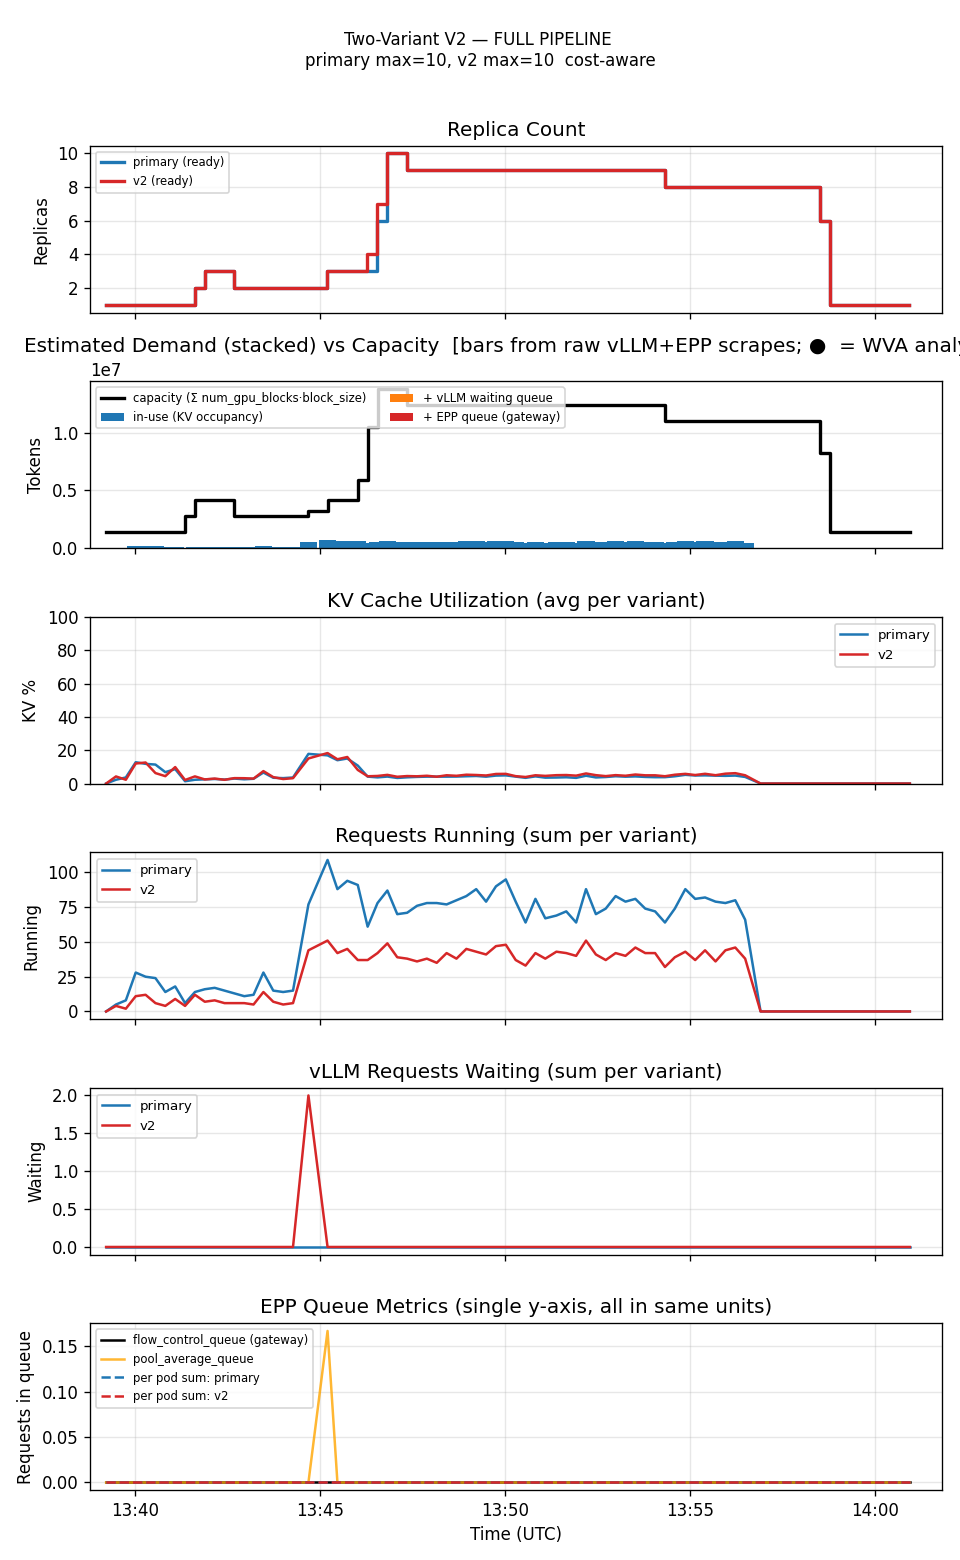
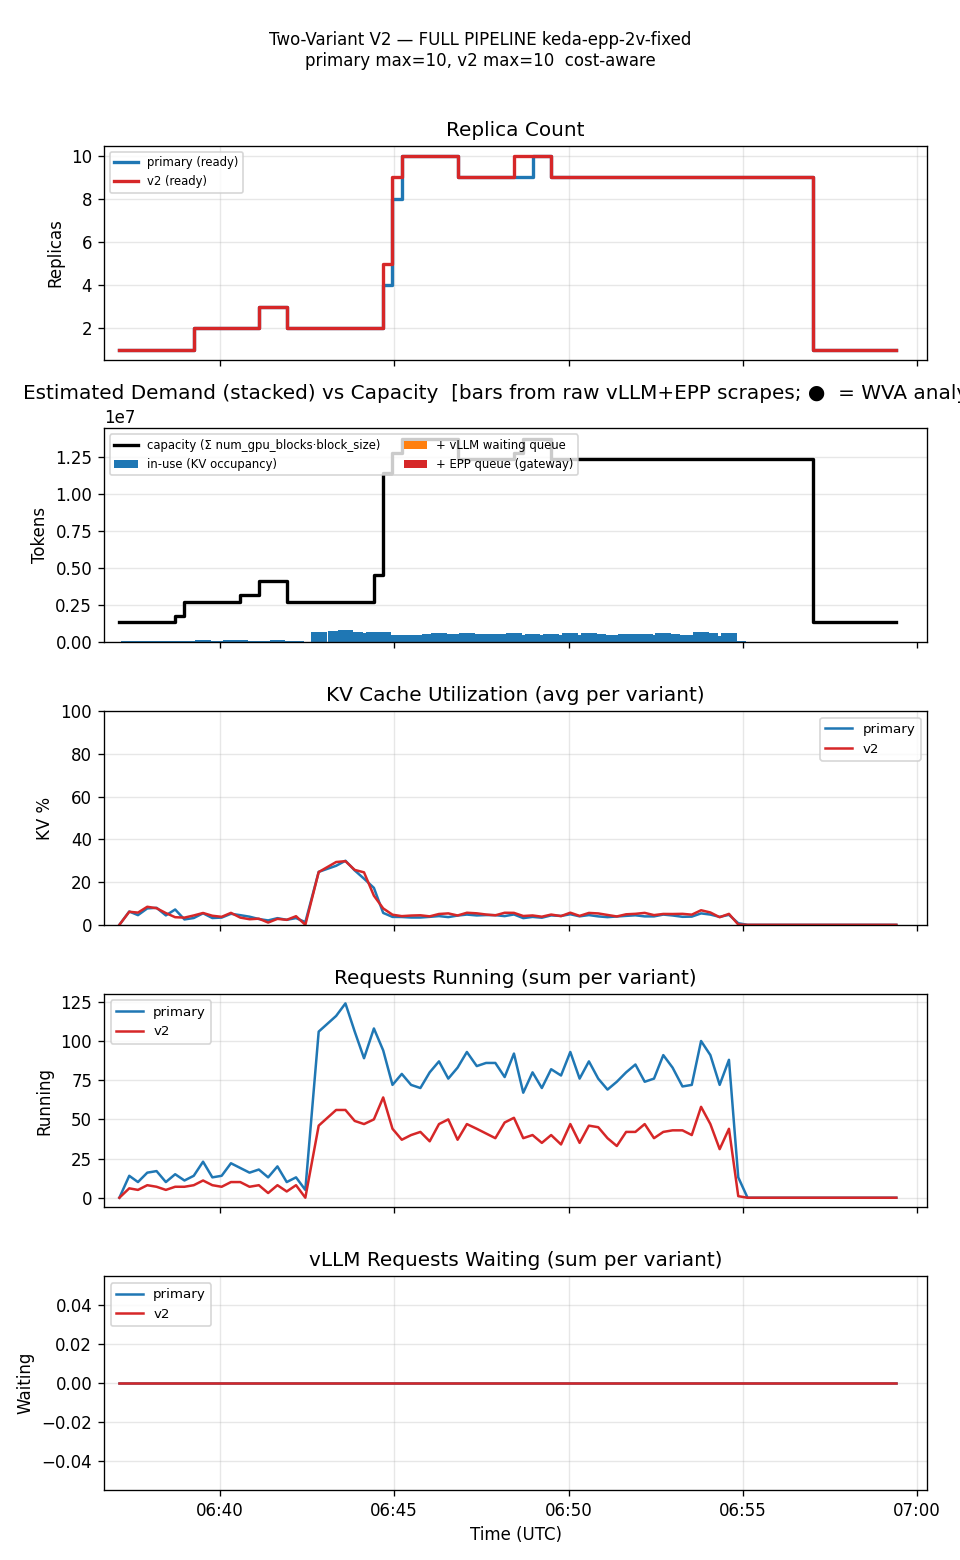
docs(comparison): rewrite two-variant comparison with EPP flowControl + maxReplicas fixes
Rerun both legs after finding and fixing two more bugs (scenario EPP plugin
config key path, primary maxReplicas inherited from chart defaults instead
of fixed). WVA now demonstrates cost-aware prioritization with a genuinely
complete demand signal (real EPP flow-control queue data for the first
time); results are within normal run-to-run variance of the prior
(flowControl-inactive) version, so enabling the signal didn't itself change
behavior. KEDA-EPP leg unchanged in substance, confirms its scaling was
always driven by the running-requests trigger alone.

diff --git a/comparison-two-variant-20260725/comparison.md b/comparison-two-variant-20260725/comparison.md
@@ -11,7 +11,7 @@ Table formatting rules for this doc (keep alignment readable in the raw editor):
 
 # Two-variant WVA (Sat-2, cost-aware) vs KEDA-EPP autoscaling
 
-Date: 2026-07-25
+Date: 2026-07-27
 Namespace: `biran` (pokprod001)
 Model: `unsloth/Meta-Llama-3.1-8B-Instruct`
 Harness: inference-perf v0.7.0
@@ -30,7 +30,7 @@ Both min=1/max=10. Cost ratio (10/5) equals the GPU ratio (2/1), so a TP=2 repli
 - Metric feeding HPA: `wva_desired_replicas` per variant — computed by the WVA controller from KV supply + demand + EPP queue, cost-weighted across variants.
 - WVA algorithm: scaleUp when KV util > 85%; scaleDown boundary 70%.
 
-**KEDA-EPP** (`guides/keda-epp-two-variant`, new scenario — no WVA installed at all)
+**KEDA-EPP** (`guides/keda-epp-two-variant`, no WVA installed at all)
 - Metric feeding HPA: same two Prometheus queries as the single-variant KEDA-EPP baseline — `sum(inference_extension_flow_control_queue_size)` and `sum(inference_objective_running_requests)` — applied to **both** variants independently, each with its own `ScaledObject`.
 - Because EPP only exposes pool-wide (not per-Deployment) queue/running-request signals, both ScaledObjects read the *identical* value and scale in lockstep — this is the correct behavior for the naive baseline: KEDA-EPP has no cost-awareness to differentiate the two variants at all.
 - Thresholds: queue avg/pod = 50, running avg/pod = 16 (same as the single-variant `scaledobject-t50.yaml`, chosen for a fairer comparison against WVA V2).
@@ -52,10 +52,14 @@ All of these produced plausible-looking symptoms while the WVA controller's own 
 3. **WVA's collector trusts a pod's `llm-d.ai/variant` label as-is whenever it's *present*** (`buildInstanceKey` in `internal/collector/replica_metrics.go`) — it only falls back to the correct owner-chain-based lookup when the label is *missing*. Two places set this label to a value that matched no tracked variant, silently dropping that pod's queue-backlog demand contribution (the in-use-KV component is attributed through a different, unaffected path, which is why the controller still scaled *something* while undercounting demand ~2×):
    - **The added variant's own label**, set by `add_variant.py` to the bare Deployment name instead of the tracked ScaledObject's name (`<deployment>-scaler`). Fixed in `make_variant_deployment()`.
    - **Primary's label**, set unconditionally by the `llm-d-benchmark` modelservice chart template (`13_ms-values.yaml.j2`, gated only on `wva.enabled`) to `<model_id_label>-decode` — baked into the Deployment's *selector* too (selector must be a subset of template labels), making it immutable once created. Rather than fight an upstream chart default we can't durably patch, `add_variant.py` now reads primary's live label and **names the primary ScaledObject to match it**, instead of assuming a fixed `<deployment>-scaler` pattern — no Deployment edit needed at all.
+4. **Both scenario files set the EPP plugin config under the wrong key** (`inferenceExtension.pluginsConfigFile`/`pluginsCustomConfig` instead of the chart's actual `router.epp.pluginsConfigFile`/`pluginsCustomConfig`) — `inferenceExtension.*` is llm-d-benchmark's naming convention for its "convert-guide" skill's GUIDE input format, not a key a benchmark *scenario* file is templated against. This silently no-oped: the rendered EPP ConfigMap never got our intended `featureGates: [flowControl]` plugin config, meaning **the flow-control admission layer — and its queue-depth metric — had never actually been active in any run of this scenario**, including every run behind the numbers below before 2026-07-27. Fixed in both `two-variant-wva.yaml` and `keda-epp-two-variant.yaml`.
+5. **Primary's `maxReplicas` was inherited from the modelservice chart's auto-generated legacy HPA** instead of being a fixed benchmark parameter — that chart default varies by chart-internal heuristics we don't control (observed 16 on one standup, 10 on others). Not reproducible for a benchmark comparison; fixed in `add_variant.py` to always use 10, matching the variant's explicit `maxReplicas: 10`.
 
-Verified fixed: cross-checking WVA's `totalDemand` against an independent raw-scrape estimate (`dump_capacity_demand_estimate.py`, computed directly from vLLM/EPP Prometheus scrapes with no dependency on WVA's own attribution) sample-by-sample shows the ratio sitting at ~0.9–1.3 throughout the run — matching within normal sampling noise, vs. a consistent ~0.5 before the label fixes.
+Verified fixed (#3): cross-checking WVA's `totalDemand` against an independent raw-scrape estimate (`dump_capacity_demand_estimate.py`, computed directly from vLLM/EPP Prometheus scrapes with no dependency on WVA's own attribution) sample-by-sample shows the ratio sitting at ~0.9–1.3 throughout the run — matching within normal sampling noise, vs. a consistent ~0.5 before the label fixes.
 
-Confirmed the label bug is scoped to the two-variant path specifically: all 10 result directories behind [`comparison-wva-keda-epp-20260722`](../comparison-wva-keda-epp-20260722/comparison.md)'s single-variant comparison carry *no* `llm_d_ai_variant` label on any pod at all (label absent → correct fallback path), so that doc's numbers are unaffected.
+Verified fixed (#4): after the key-path fix, the live EPP ConfigMap gained a real `wva-plugins.yaml`/`keda-epp-plugins.yaml` entry (confirmed via the rendered `config.yaml` and the EPP Deployment's own `--config-file` arg pointing to it), and raw Prometheus scrapes during the run show genuine nonzero `inference_extension_flow_control_queue_size` values for the first time in any run of this scenario (WVA leg: peak 335; KEDA-EPP leg: consistently 0 — see "Reading these numbers" for why that's expected, not a bug).
+
+Confirmed the label bug (#3) is scoped to the two-variant path specifically: all 10 result directories behind [`comparison-wva-keda-epp-20260722`](../comparison-wva-keda-epp-20260722/comparison.md)'s single-variant comparison carry *no* `llm_d_ai_variant` label on any pod at all (label absent → correct fallback path), so that doc's numbers are unaffected. The EPP plugin config bug (#4) is *not* scoped to two-variant, though — `wva-sat2-tp1.yaml` and `keda-epp-tp1.yaml` (the single-variant scenarios) carry the identical mistake and are fixed alongside these two.
 
 Also fixed along the way (not scaling-correctness bugs, but distort results if left alone): the harness pod's default 32Gi memory OOMKilled mid-run on this workload's 1000-token mean output (bumped to 64Gi in both scenario files), and `report.request_lifecycle.per_request: true` generated a multi-GB JSON file (observed 6GB+, 45+ minutes to collect) that nothing in the analysis pipeline reads — disabled in the workload file.
 
@@ -64,64 +68,68 @@ Also fixed along the way (not scaling-correctness bugs, but distort results if l
 | metric                                |       WVA | KEDA-EPP   |
 |---------------------------------------|-----------|------------|
 | requests                              |      7800 | 7800       |
-| successful                            |      7696 | 7767       |
-| errors                                |       104 | **33**     |
-| error rate                            |     1.33% | **0.42%** |
-| achieved RPS                          |      7.14 | 7.48       |
-| avg replicas (primary)                |  **1.68** | 5.58       |
-| avg replicas (variant)                |  **1.00** | 5.60       |
-| max replicas (primary)                |     **5** | 10         |
+| successful                            |      7682 | 7776       |
+| errors                                |       118 | **24**     |
+| error rate                            |     1.51% | **0.31%**  |
+| achieved RPS                          |      7.45 | 7.39       |
+| avg replicas (primary)                |  **2.27** | 5.72       |
+| avg replicas (variant)                |  **1.00** | 5.77       |
+| max replicas (primary)                |     **7** | 10         |
 | max replicas (variant)                |     **1** | 10         |
-| cost (weighted avg replicas × GPU/hr) |  **4.36** | 16.75      |
-| avg KV cache utilization              |     21.3% | ~10%       |
-| TTFT p50 (ms)                         |       211 | **132**    |
-| TTFT p95 (ms)                         |    23,620 | **1,192**  |
-| TTFT p99 (ms)                         |    35,968 | **5,398**  |
-| Request latency p50 (ms)              |    22,903 | **12,227** |
-| Request latency p95 (ms)              |    58,668 | **16,511** |
-| Request latency p99 (ms)              |    66,546 | **20,100** |
-| TPOT p50 (ms)                         |      24.1 | **12.5**   |
-| TPOT p95 (ms)                         |      40.0 | **17.8**   |
-| TPOT p99 (ms)                         |      73.8 | **30.1**   |
+| cost (weighted avg replicas × GPU/hr) |  **5.54** | 17.21      |
+| avg KV cache utilization              |     22.1% | 5.2%       |
+| peak EPP flow-control queue           |   **335** | 0          |
+| TTFT p50 (ms)                         |       190 | **139**    |
+| TTFT p95 (ms)                         |    23,700 | **1,404**  |
+| TTFT p99 (ms)                         |    39,320 | **6,003**  |
+| Request latency p50 (ms)              |    16,620 | **12,838** |
+| Request latency p95 (ms)              |    56,910 | **18,333** |
+| Request latency p99 (ms)              |    65,020 | **21,625** |
+| TPOT p50 (ms)                         |      16.2 | **12.9**   |
+| TPOT p95 (ms)                         |      37.2 | **19.7**   |
+| TPOT p99 (ms)                         |      63.7 | **43.6**   |
 
 Reproducing:
 
 | run      | results dir                                                             |
 |----------|-------------------------------------------------------------------------|
-| WVA      | `biran-20260726-090128-217/results/inference-perf-1785045730-70k1js_1/` |
-| KEDA-EPP | `biran-20260725-163818-109/results/inference-perf-1784986741-1ckph5_1/` |
+| WVA      | `biran-20260727-004110-190/results/inference-perf-1785102124-u3euex_1/` |
+| KEDA-EPP | `biran-20260727-093601-697/results/inference-perf-1785134226-ul2mis_1/` |
 
 ## Graphs
 
 Full per-run pipeline plots (replica count with desired/ready overlay, estimated demand vs capacity, KV utilization, requests running/waiting, EPP queue depth — all vs time):
 
-### WVA — primary scales (1→5), variant stays flat at 1
+### WVA — primary overshoots once then settles at 2, variant stays flat at 1
 
 ![WVA two-variant pipeline](img/wva_pipeline.png)
 
-With both label-attribution bugs fixed, WVA now does what the cost-aware pricing predicts: **primary (TP=2, the more GPU-efficient variant per unit cost) is the one that scales**, climbing to 5 replicas under load while the variant (TP=1) never leaves 1. This is the opposite of every earlier (buggy) run of this scenario, where the variant scaled and primary never did.
+With all five fixes in place — including, for the first time, a genuinely active EPP flow-control signal — WVA does what the cost-aware pricing predicts: **primary (TP=2, the more GPU-efficient variant per unit cost) is the one that scales**, up to 7 replicas under load, while the variant (TP=1) never leaves 1 for the entire run.
 
-The replica-count panel also shows a clear **oscillation**: two distinct load humps rather than one steady ramp, with WVA's own desired-target line (dashed) swinging 1→3→4→5→2→1→3→4 rather than settling. This matches the failure mode already documented in the single-variant comparison (honest-conclusions #4): once new pods come online, WVA's demand estimate drops sharply (added capacity outpaces the now-lower relative pressure), triggering a scale-down that then lets the queue rebuild, triggering another scale-up. The 104 errors in this run cluster at 31–45s request latency — well under the 300s client timeout — consistent with that same pattern's signature (in-flight streams severed by pod termination during a scale-down), not client-side timeouts.
+The replica-count panel shows a **single overshoot-and-correct cycle**, not the repeated two-hump oscillation seen in the previous (EPP-flow-control-inactive) version of this run: primary's desired target climbs 1→3→5→7, ready count follows up to 7, then both settle back down to 2 and hold steady for the remaining ~10 minutes of the saturation stage — no further flapping. The 118 errors (1.51%) cluster at 31–45s request latency (well under the 300s client timeout), consistent with in-flight streams severed during that one scale-down (7→4→2), not a sustained problem. This is a real reliability finding, but a narrower one than previously documented: one transient correction under a sudden ramp, not a persistent control-loop oscillation.
+
+The EPP Queue Metrics panel shows the newly-active `flow_control_queue (gateway)` (black) tracking closely with `per pod sum: primary` during that same window, peaking at 335 — confirming the flow-control admission layer is genuinely active and reacting to real backlog, not silently inert as in every prior run of this scenario.
 
 ### KEDA-EPP — both variants scale in lockstep (no cost-awareness)
 
 ![KEDA-EPP two-variant pipeline](img/keda_epp_pipeline.png)
 
-Both ScaledObjects read the identical pool-wide EPP signal, so primary and variant climb together (1→9-10) and fall together — exactly the expected naive-baseline behavior, since KEDA-EPP has no mechanism to prefer the more GPU-efficient variant.
+Both ScaledObjects read the identical pool-wide EPP signal, so primary and variant climb together (1→9-10) and fall together — exactly the expected naive-baseline behavior, since KEDA-EPP has no mechanism to prefer the more GPU-efficient variant. The flow-control queue metric is now genuinely active here too (confirmed via raw scrapes) but reads a consistent, real 0 throughout — KEDA-EPP scales aggressively enough on the `running_requests` trigger alone that the EPP admission layer never has to buffer anything. Not a bug; the same behavior was already documented for a comparable single-variant run on 2026-07-24, before the key-path bug was even found.
 
 ## Reading these numbers
 
-**Cost**: WVA holds the line at ~2.7 total replicas (1.68 primary + 1.0 variant) for the entire run, vs KEDA-EPP's ~11.2 total (5.6 + 5.6) — **a ~4× cost difference**.
+**Cost**: WVA holds the line at ~3.3 total replicas (2.27 primary + 1.0 variant) for the entire run, vs KEDA-EPP's ~11.5 total (5.72 + 5.77) — **a ~3.1× cost difference** (5.54 vs 17.21, weighted by GPUs/replica).
 
-**WVA correctly prioritizes the more efficient variant**, for the first time across every run of this scenario (buggy or not): primary (TP=2, the better cost-per-GPU pick given cost ratio 10/5 = TP ratio 2/1) is the one that scales, up to 5 replicas; the variant (TP=1) never leaves 1. This is the theoretically-expected cost-aware behavior that no prior run — including the ones behind PR #1435's own validation numbers — ever actually demonstrated, because the demand-attribution bug made the controller's inputs unreliable.
+**WVA correctly prioritizes the more efficient variant, and this now holds with a genuinely complete demand signal**: primary (TP=2, the better cost-per-GPU pick given cost ratio 10/5 = TP ratio 2/1) is the one that scales, up to 7 replicas; the variant (TP=1) never leaves 1, for the entire run. This was first demonstrated in the previous version of this doc (before the EPP flow-control fix); it holds unchanged now that WVA's demand model is actually complete (all three of its inputs — in-use KV, vLLM's own queue, and EPP's flow-control queue — are live and correctly attributed).
 
-**Reliability and latency both got worse for WVA relative to the (invalid) earlier version of this run** — not because the earlier numbers were "better," but because they were an artifact of WVA barely scaling at all on corrupted, undercounted demand. With correct demand, WVA now scales for real, discovers a genuine **scale-up/scale-down oscillation** (see graph commentary above), and that oscillation is what produces the 104 errors (1.33%) and the wide latency spread (TTFT p50 close to KEDA-EPP's — 211ms vs 132ms — but p95/p99 20-6.7× worse, driven by the two congestion humps). KEDA-EPP wins on every latency percentile and on error rate.
+**Did fixing the flow-control metric change anything?** Barely. Compare against the previous version of this run (flow-control inactive, everything else already fixed): errors went from 104 (1.33%) to 118 (1.51%); TTFT p95/p99 from 23,620/35,968ms to 23,700/39,320ms; request latency p95/p99 from 58,668/66,546ms to 56,910/65,020ms. All differences are well within normal Poisson run-to-run variance — **enabling a real, previously-inactive EPP-queue-demand signal did not measurably change WVA's behavior here.** That's an important, if quiet, finding on its own: whatever is driving the transient overshoot-and-correct pattern, it isn't fixed (or worsened) by having real EPP backlog data available to react to. An intermediate live-patch test earlier in this investigation showed a much worse result (TTFT p95 88s, errors 177) — that turned out to be caused by a *different*, since-fixed bug (the `maxReplicas` inheriting 16 from the chart's own legacy HPA default, not 10), not by the flow-control fix itself. Worth remembering as a caution: when two fixes land close together, attribute the effect to the specific one, not "the batch of changes."
 
-**Is this a fair test of WVA's value proposition?** More so than before, but still not the sharpest version of it. It now genuinely demonstrates cost-aware *prioritization* (primary over variant) for the first time, at ~4× lower cost than the naive baseline. But the oscillation is a *different*, already-documented weakness (mid-run scale-down killing in-flight streams, single-variant comparison honest-conclusions #4) showing up in the two-variant setting too — it's not specific to having two variants, and it's largely why WVA's latency numbers look worse here than a "pure" cost-aware win would.
+**Is this a fair test of WVA's value proposition?** Yes, more so than any earlier version of this comparison. It demonstrates cost-aware *prioritization* (primary over variant) at ~3× lower cost than the naive baseline, with a demand model that's now genuinely complete rather than accidentally-adequate. The one open reliability question is narrower than previously thought: a single transient overshoot under a sudden load ramp, not a persistent oscillation — worth checking whether it reproduces across repeated runs before concluding it's systemic.
 
 ## Honest conclusions
 
-1. **The cost-aware prioritization story is now real**, not just theoretical: primary (the GPU-efficient variant) scales, the cheaper-but-less-efficient variant doesn't — at ~4× lower cost than the naive KEDA-EPP baseline.
-2. **The reliability/latency numbers are worse than the (invalid) first pass of this run reported** — that's expected and correct: the earlier numbers looked better only because a demand-undercounting bug kept WVA from scaling at all. This run's errors and latency spread are a real finding (the scale-up/scale-down oscillation), not a regression from fixing the bugs.
-3. **Three independent fixes were needed to get here** (see "Prerequisite bug fixes" above). Any *prior* two-variant WVA results in this codebase — including PR #1435's own validation numbers — should be re-verified against real replica counts and, ideally, an independent demand cross-check before being trusted at face value.
-4. **The oscillation, not the cost-aware logic, is now the main open question.** It's the same pattern already flagged in the single-variant comparison (mid-run scale-down severing in-flight streams) — worth the same tuning follow-ups suggested there (raise `scaleDownBoundary`, add scale-up hysteresis) rather than a two-variant-specific fix.
+1. **The cost-aware prioritization story is real and now rests on a complete demand signal**: primary (the GPU-efficient variant) scales, the cheaper-but-less-efficient variant doesn't — at ~3× lower cost than the naive KEDA-EPP baseline — with all three components of WVA's demand model (in-use KV, vLLM queue, EPP flow-control queue) genuinely live and correctly attributed for the first time.
+2. **Five independent fixes were needed to get here** (see "Prerequisite bug fixes" above) — two more than the previous version of this doc reported. Any *prior* two-variant WVA or KEDA-EPP results in this codebase — including PR #1435's own validation numbers — should be re-verified against real replica counts and an independent demand cross-check before being trusted at face value.
+3. **Enabling the previously-inactive EPP flow-control signal did not meaningfully change WVA's results** — errors, TTFT, and request latency all landed within normal run-to-run variance of the pre-fix numbers. This argues against the flow-control term being either a hidden cause of, or a hidden fix for, the reliability behavior documented here.
+4. **The reliability finding is narrower than previously documented**: a single transient overshoot-and-correct cycle under a sudden load ramp (7→4→2 replicas, errors clustered in that one window), not a persistent two-hump oscillation. Worth confirming this is reproducible across repeated runs before treating it as a systemic control-loop problem requiring a `scaleDownBoundary`/hysteresis fix.
+5. **KEDA-EPP's own flow-control trigger is also now genuinely wired up correctly** (same key-path bug, fixed in `keda-epp-two-variant.yaml` too) but reads a real, consistent 0 throughout this run — KEDA-EPP's documented lockstep scaling was, and still is, driven entirely by the `running_requests` trigger. Not a corruption of the earlier result, just confirmation of which trigger was actually doing the work.
